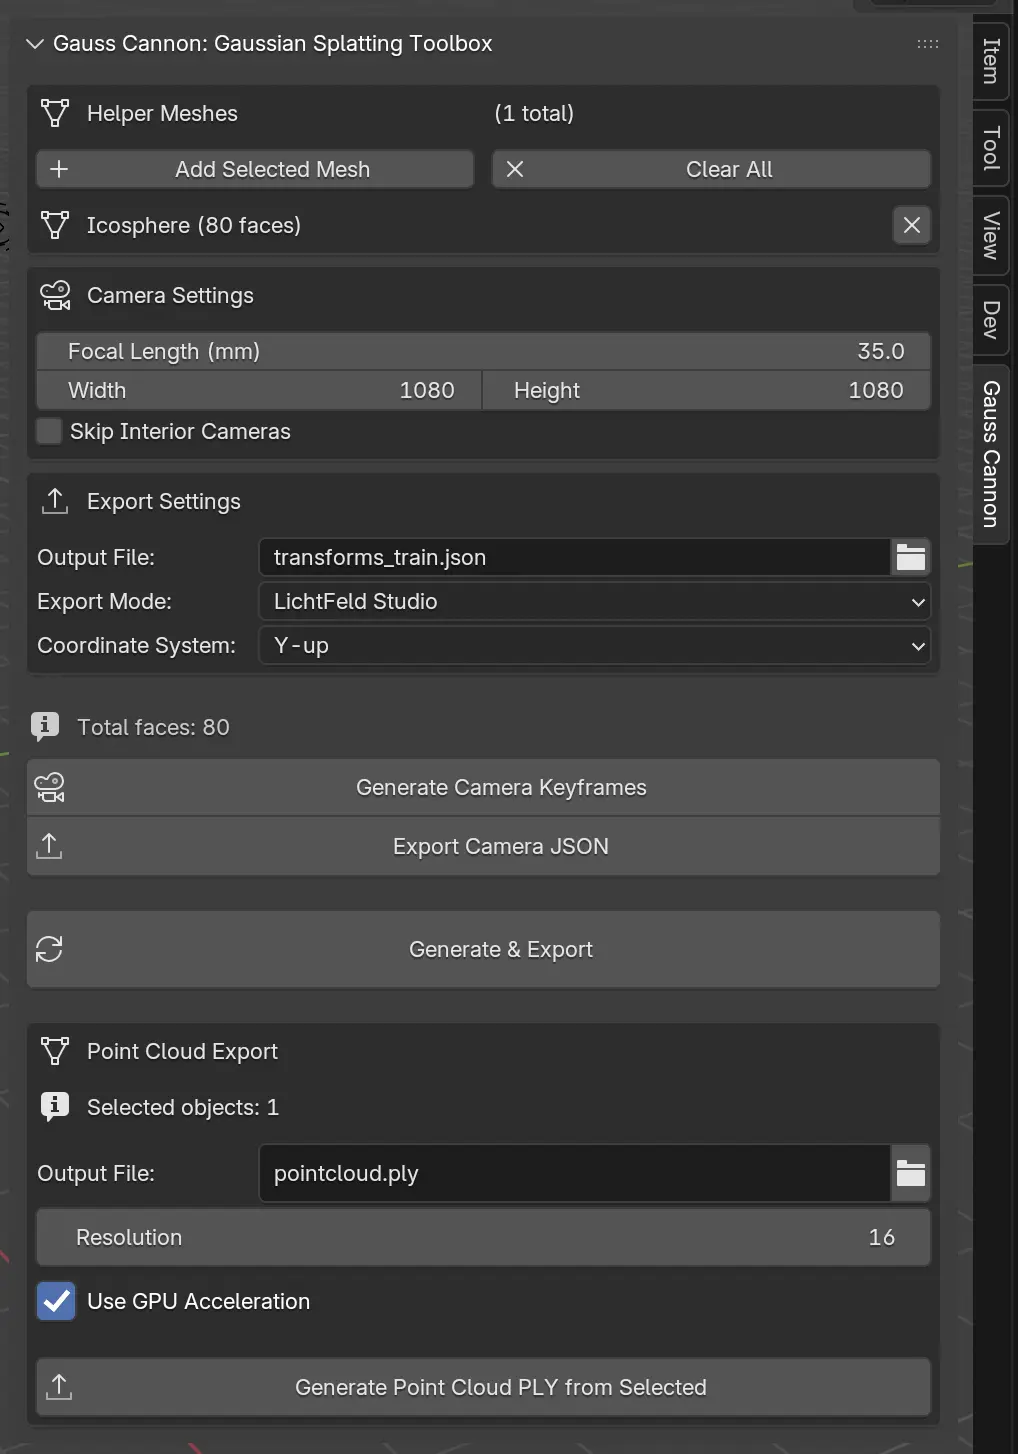
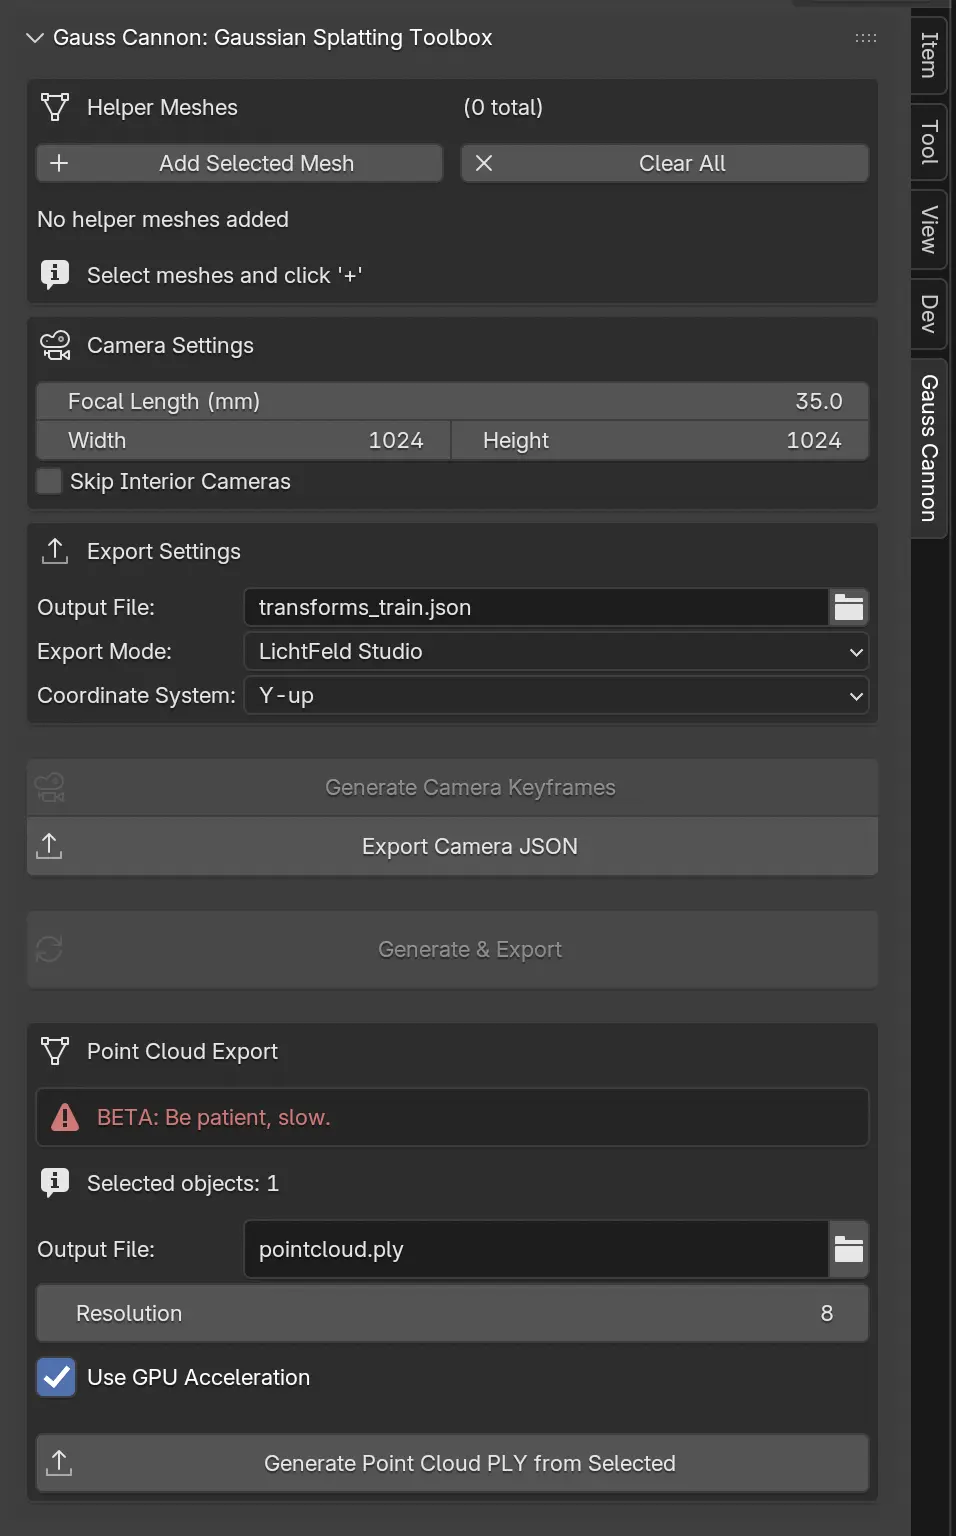
ui fix

diff --git a/addon/ui/panels.py b/addon/ui/panels.py
@@ -108,6 +108,11 @@ class VIEW3D_PT_helper_mesh_panel(bpy.types.Panel):
         box = layout.box()
         box.label(text="Point Cloud Export", icon="MESH_DATA")
 
+        # Warning about performance and beta status
+        warning_box = box.box()
+        warning_box.alert = True
+        warning_box.label(text="BETA: Be patient, slow.", icon="ERROR")
+
         # Show selected objects count
         selected_meshes = [
             obj for obj in context.selected_objects if obj.type == "MESH"
